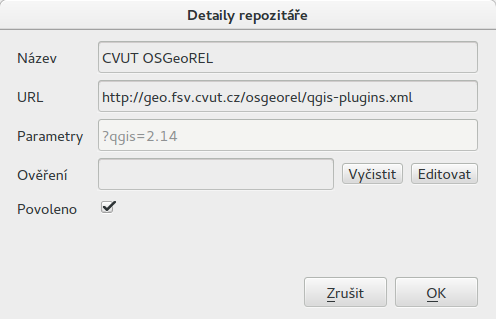
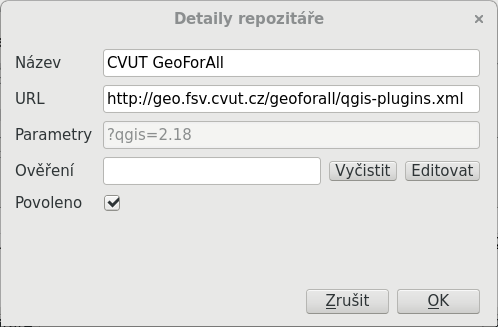
osgeorel -> geoforall

diff --git a/ruzne/vfk-ruian.rst b/ruzne/vfk-ruian.rst
@@ -93,22 +93,20 @@ Instalace
 V současné době není VFK plugin součástí oficiálního repositáře
 QGISu. Pro jeho instalaci je nutné do QGISu zaregistrovat nový
 repositář, který je dostupný na adrese
-*http://geo.fsv.cvut.cz/osgeorel/qgis-plugins.xml*.
+*http://geo.fsv.cvut.cz/geoforall/qgis-plugins.xml*.
 
 V dialogu :menuselection:`Zásuvné moduly --> Spravovat a instalovat
-zásuvné moduly` přidáme nový repositář a aktivuje experimentální
-moduly.
+zásuvné moduly` přidáme nový repositář.
 
 .. figure:: images/vfk-repo-pridat.png
 
-   Pro instalaci VFK pluginu je nutné aktivovat experimentální zásuvné
-   moduly a přidat nový repositář.
+   Pro instalaci VFK pluginu je nutné přidat nový repositář.
 
 .. figure:: images/vfk-repo.png
    :class: small
         
    V dialogu definujeme název a URL 
-   http://geo.fsv.cvut.cz/osgeorel/qgis-plugins.xml.
+   http://geo.fsv.cvut.cz/geoforall/qgis-plugins.xml.
 
 .. figure:: images/vfk-repo-instalace.png
 
@@ -194,7 +192,7 @@ cílového formátu. Jako cílový formát doporučujeme
 
 .. note:: Konverzní nástroje *vfr2ogr* najdete na serveru GitHub, viz
           `stránka s verzemi
-          <https://github.com/ctu-osgeorel/gdal-vfr/releases>`_ ke
+          <https://github.com/ctu-geoforall-lab/gdal-vfr/releases>`_ ke
           stažení.
 
 Jako příklad si ukážeme stažení dat pro OPR Litoměřice a konverzi dat
